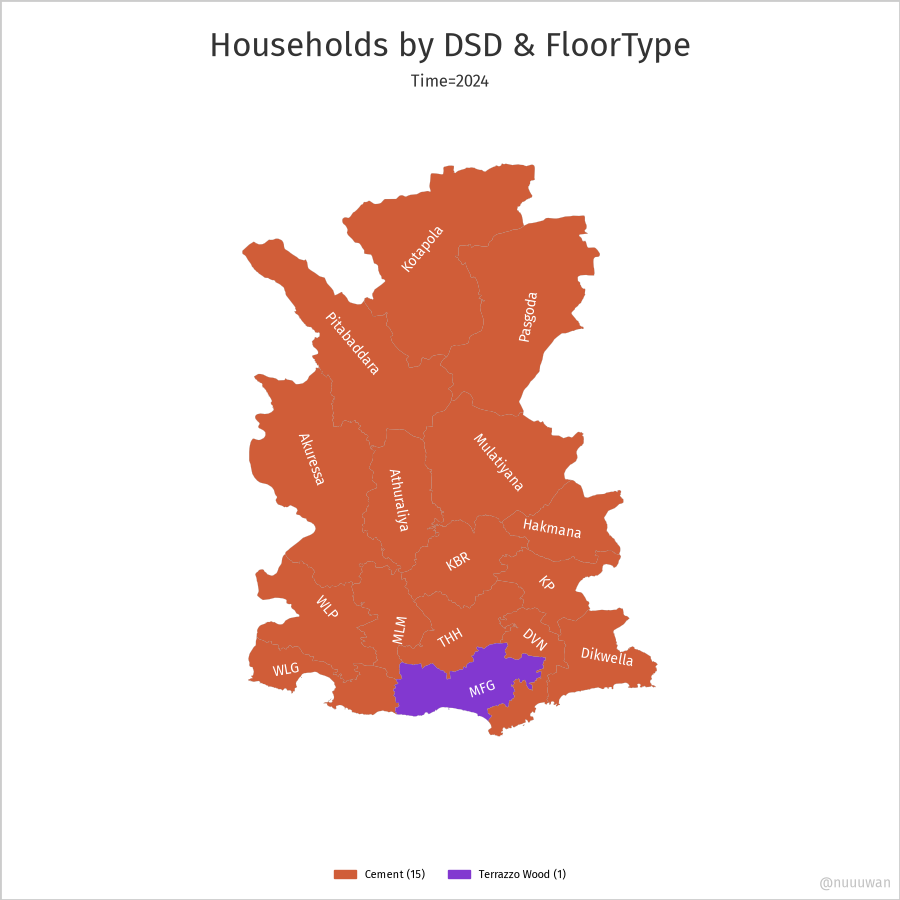
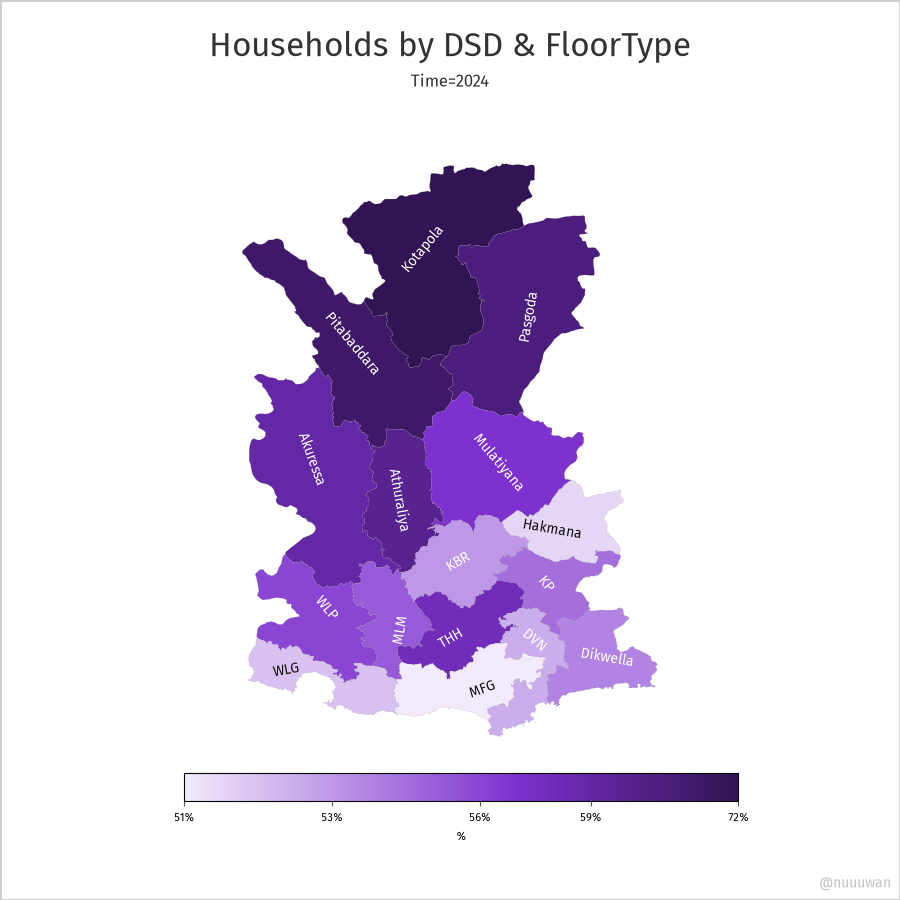
Use value-mode colorbar for single-map Top maps

Changed region(s): [[0.1867, 0.1556, 0.84, 0.9333], [0.4978, 0.9644, 0.6222, 0.9956], [0.3733, 0.9644, 0.4667, 0.9956]]

diff --git a/src/ds/visual/map/MapColorMixin.py b/src/ds/visual/map/MapColorMixin.py
@@ -39,8 +39,21 @@ class MapColorMixin:
         categories = self._get_unique_dim_values(self.region_color_dim_key)
         return self._get_dim_color_idx(self.region_color_dim_key, categories)
 
+    def _is_single_map(self):
+        return len(self.display_datumsets) == 1
+
+    def _get_single_map_base_color(self):
+        return self._get_subfigure_base_color(self.display_datumsets[0])
+
     def _get_color_context(self):
         if self.region_color_dim_key is not None:
+            if self._is_single_map():
+                base_color = self._get_single_map_base_color()
+                return {
+                    "mode": "value",
+                    "cmap": self._build_hsl_lightness_cmap(base_color),
+                    "values": self._get_sorted_values(),
+                }
             return {
                 "mode": "category",
                 "color_idx": self._get_category_color_idx(),
